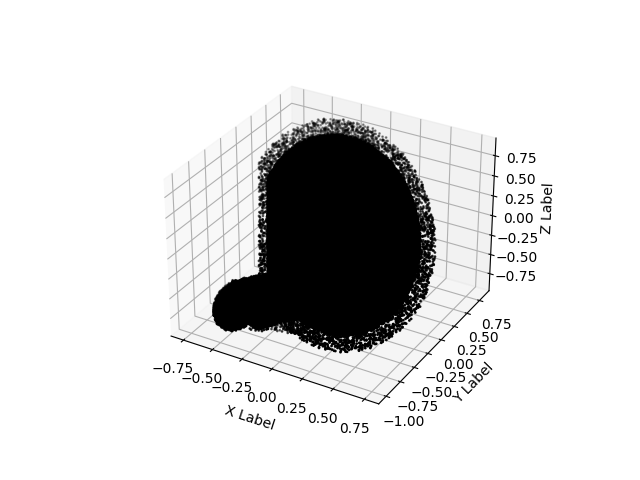
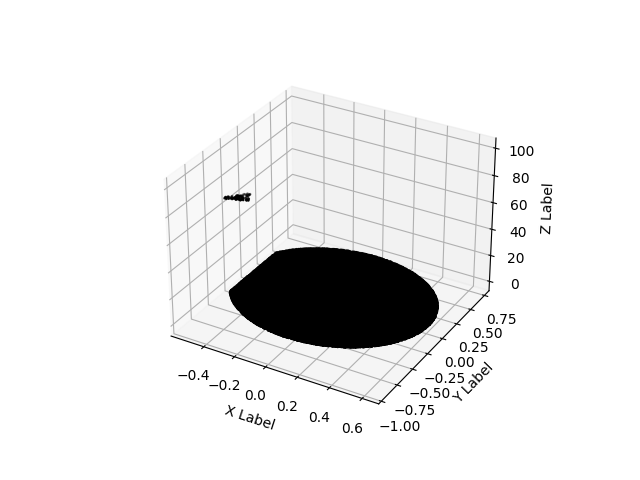
m

Changed region(s): [[0.25, 0.1875, 0.8438, 0.875], [0.5312, 0.6562, 0.8125, 0.9062]]

diff --git a/norm.py b/norm.py
@@ -1,0 +1,129 @@
+import matplotlib.pyplot as plt
+import numpy as np
+import init_conditions as incs
+
+        
+def barnard_68():
+    np.random.seed(19680801) # вообще хз что это, но наверно нужно
+
+    def randrange(N, vmin, vmax):
+        return (vmax - vmin)*np.random.rand(N) + vmin  # функция создаёт точки в рандомных местах в указанном диапозоне 
+    
+    fig = plt.figure()
+    ax = fig.add_subplot(projection='3d')
+    n = 0  # используется как номер элемента
+    k = 0  # обнуляет n (n=k)
+
+    x1, y1, z1 = [], [], [] # тёмный сектор эллипса - центр
+    x2, y2, z2 = [], [], [] # малый круг на конце туманности (левый низ)
+    x3, y3, z3 = [], [], [] # нижний треугольник трапеции, малое основание которого - диаметр окружности 
+    x4, y4, z4 = [], [], [] # прямоугольник трапеции (выше треугольника x3), соединяет сектор эллипса с окружностью
+    x5, y5, z5 = [], [], [] # просвечивающиймя большой сектор эллипса (вокруг тёмного сектора эллипса)
+    x6, y6, z6 = [], [], [] # первый треугольник, соединяющий просвечивающуюся часть с малым кругом
+    x7, y7, z7 = [], [], [] # второй треугольник, соединяющий просвечивающуюся часть с малым кругом
+
+    # все треугольники являются прямоугольными
+
+    for m, zlow, zhigh in [('.', -1, 1)]:
+        x1s = randrange(incs.N*1000//incs.S1, -incs.b_ellips1, incs.b_ellips1)
+        y1s = randrange(incs.N*1000//incs.S1, -incs.a_ellips1, incs.a_ellips1)
+        z1s = randrange(incs.N*1000//incs.S1, -incs.zcoord, incs.zcoord)
+        for i in x1s:
+            if i >= incs.sector1  and (x1s[n]**2)/(incs.b_ellips1**2) + (y1s[n]**2)/(incs.a_ellips1**2) <= 1:
+                x1.append(x1s[n]/incs.miu)
+                y1.append(y1s[n]/incs.miu)
+                z1.append(z1s[n]/incs.miu)
+                n += 1
+            else:
+                n += 1
+        n = k
+    
+        x2s = randrange(incs.N*100//incs.S2, -incs.Radius, incs.Radius)
+        y2s = randrange(incs.N*100//incs.S2, -incs.Radius, incs.Radius)
+        z2s = randrange(incs.N*100//incs.S2, -incs.zcoord, incs.zcoord)
+        for i in x2s:
+            if x2s[n]**2 + y2s[n]**2 <= incs.Radius:
+                x2.append(((x2s[n]+incs.X2))/incs.miu)
+                y2.append(((y2s[n]+incs.Y2))/incs.miu)
+                z2.append(z2s[n]/incs.miu)
+                n += 1
+            else:
+                n += 1
+        n = k
+
+        x3s = randrange(incs.N*1000//incs.S3, 0, incs.katetx3)
+        y3s = randrange(incs.N*1000//incs.S3, 0, incs.katety3)
+        z3s = randrange(incs.N*1000//incs.S3, -incs.zcoord, incs.zcoord)
+        for i in x3s:
+            if y3s[n]/(incs.katetx3-x3s[n]) <= incs.katety3/incs.katetx3:
+                x3.append(((((incs.katetx3-x3s[n])**2+y3s[n]**2)**0.5*np.cos(np.arctan(y3s[n]/(incs.katetx3-x3s[n]))+incs.betta+incs.alpha)+incs.X3))/incs.miu)
+                y3.append(((((incs.katetx3-x3s[n])**2+y3s[n]**2)**0.5*np.sin(np.arctan(y3s[n]/(incs.katetx3-x3s[n]))+incs.betta+incs.alpha)+incs.Y3))/incs.miu)
+                z3.append(z3s[n]/incs.miu)
+                n += 1
+            else:
+                n += 1
+        n = k
+
+        x4s = randrange(incs.N*100//incs.S4, 0, incs.L41)
+        y4s = randrange(incs.N*100//incs.S4, 0, incs.L42)
+        z4s = randrange(incs.N*100//incs.S4, -incs.zcoord, incs.zcoord)
+        for i in x4s:
+            x4.append((((x4s[n]**2+y4s[n]**2)**0.5*np.cos(incs.gamma+incs.alpha+np.arctan(y4s[n]/x4s[n]))+incs.X4))/incs.miu)
+            y4.append((((x4s[n]**2+y4s[n]**2)**0.5*np.sin(incs.gamma+incs.alpha+np.arctan(y4s[n]/x4s[n]))+incs.Y4))/incs.miu)
+            z4.append((z4s[n]+y4s[n]+incs.Z4)/incs.miu)
+            n += 1
+        n = k
+
+        x5s = randrange(incs.N*10000//incs.S5, -incs.b_ellips5, incs.b_ellips5)
+        y5s = randrange(incs.N*10000//incs.S5, -incs.a_ellips5, incs.a_ellips5)
+        z5s = randrange(incs.N*10000//incs.S5, -incs.zcoord, incs.zcoord)
+        for i in x5s:
+            if i >= incs.sector5 and (x5s[n]**2)/(incs.b_ellips5**2) + (y5s[n]**2)/(incs.a_ellips5**2) <= 1:
+                x5.append(x5s[n]/incs.miu)
+                y5.append(y5s[n]/incs.miu)
+                z5.append(z5s[n]/incs.miu)
+                n += 1
+            else:
+                n += 1
+        n = k
+
+        x6s = randrange(incs.N//incs.S6, 0, incs.katetx6)
+        y6s = randrange(incs.N//incs.S6, 0, incs.katety6)
+        z6s = randrange(incs.N//incs.S6, -incs.zcoord, incs.zcoord)    
+        for i in x6s:
+            if y6s[n]/(incs.katetx6-x6s[n]) <= incs.katety6/incs.katetx6:
+                a = x6s[n]
+                b = y6s[n]
+                x6.append(((a**2+b**2)**0.5*np.cos(incs.alpha+np.arctan(b/a))+incs.X6)/incs.miu)
+                y6.append(((a**2+b**2)**0.5*np.sin(incs.alpha+np.arctan(b/a))+incs.Y6)/incs.miu)
+                z6.append(z6s[n]/incs.miu)
+                n += 1
+            else:
+                n += 1
+        n = k
+
+        x7s = randrange(incs.N//incs.S7, 0, incs.katetx7)
+        y7s = randrange(incs.N//incs.S7, 0, incs.katety7)
+        z7s = randrange(incs.N//incs.S7, -incs.zcoord, incs.zcoord)
+        for i in x7s:
+            if y7s[n]/x7s[n] <= incs.katety7/incs.katetx7:
+                a = x7s[n]
+                b = y7s[n]
+                x7.append(((a**2+b**2)**0.5*np.cos(incs.alpha+np.arctan(b/a))+incs.X7)/incs.miu)
+                y7.append(((a**2+b**2)**0.5*np.sin(incs.alpha+np.arctan(b/a))+incs.Y7)/incs.miu)
+                z7.append(z7s[n]/incs.miu + 100)
+                n += 1
+            else:
+                n += 1
+
+        ax.scatter(x1, y1, z1, color='black', s=incs.s)
+        ax.scatter(x7, y7, z7, color='black', s=incs.s)
+
+        ax.set_xlabel('X Label')
+        ax.set_ylabel('Y Label')
+        ax.set_zlabel('Z Label')
+
+        plt.savefig('da_3d_dich.png')
+
+
+barnard_68()
